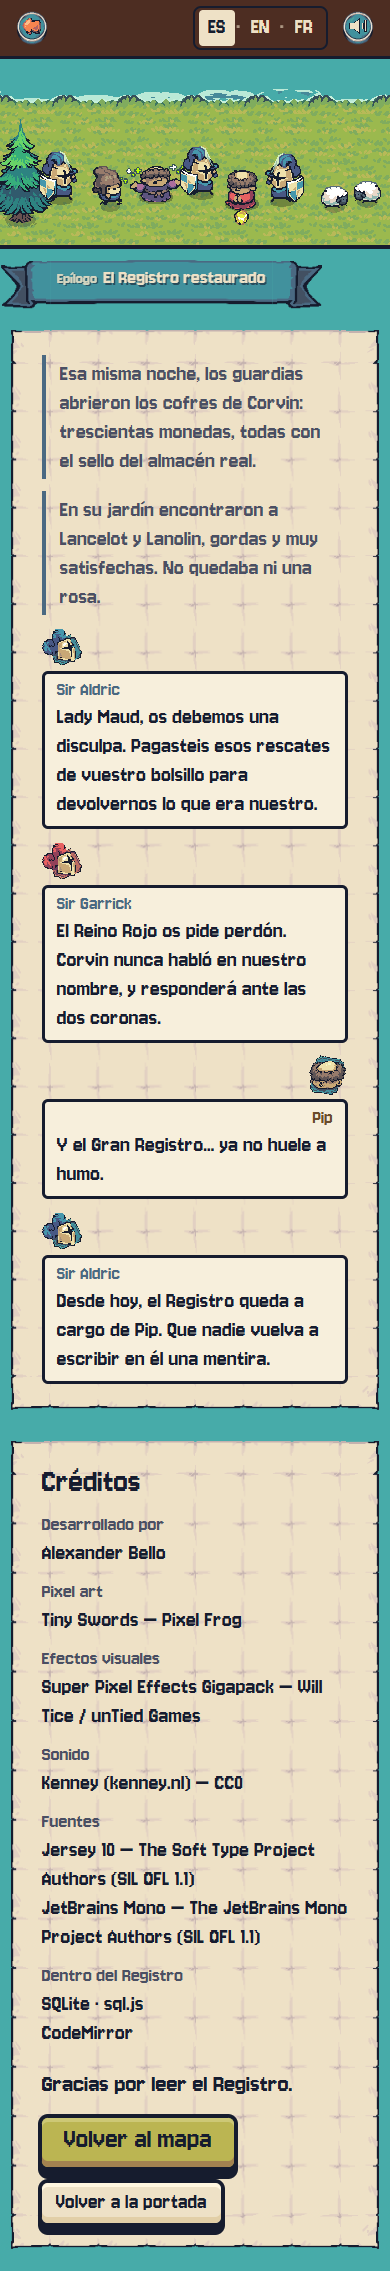
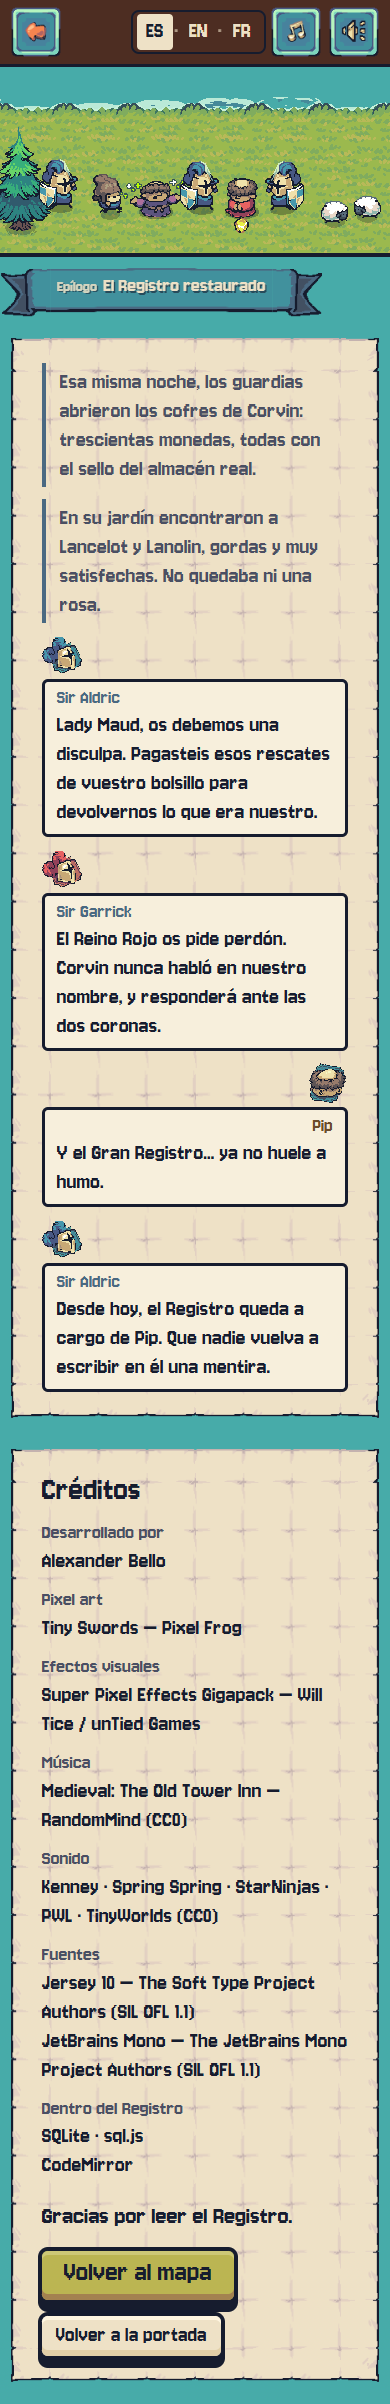
docs: Phase 6 notes, button proposals and screenshots with the new controls bar

diff --git a/README.md b/README.md
@@ -44,7 +44,7 @@ Each stage unlocks when the previous one is finished. The database is rebuilt fr
 time you run a query, so you cannot break anything. Solved levels can be played again from a blank
 page, and the map offers **Start over** to erase all progress.
 
-The language selector (ES · EN · FR) and the sound button are always in the top bar. Progress is saved
+The language selector (ES · EN · FR) and the music and sound buttons are always in the top bar. Progress is saved
 in your browser.
 
 ## Run it locally
@@ -84,19 +84,20 @@ instructions: [`docs/DEPLOY.md`](docs/DEPLOY.md).
 - **Editor**: [CodeMirror 6](https://codemirror.net) with SQLite highlighting and completion of the
   level's tables and columns.
 - **Languages**: `src/i18n/{es,en,fr}.json`; tests check that the three files have the same keys.
-- **Sound**: short effects with the Web Audio API. Nothing plays before the first click or key press,
-  and the sound button mutes everything. Browsers that cannot play Ogg Vorbis (some older Safari
-  versions) run the game without sound.
+- **Sound**: short effects and a quiet looping tune, with the Web Audio API. Nothing plays before the
+  first click or key press (that first click already has its sound). In the top bar, the speaker
+  silences everything and the note turns the music on or off; both choices are remembered. Files are
+  Ogg Vorbis, with MP3 copies for browsers that cannot play Ogg.
 - **Saved data** (`localStorage`): `kor.progress.v1` (completed levels), `kor.settings.v1` (language,
-  sound), `kor.hints.v1` (hints revealed), `kor.drafts.v1` (the SQL being written in each level).
+  sound, music), `kor.hints.v1` (hints revealed), `kor.drafts.v1` (the SQL being written in each level).
 
 ```
 docs/              Story, asset inventory, level format, deployment, design references
-public/assets/     Art, sounds and fonts used by the game + CREDITS.md and licences
+public/assets/     Art, sounds, music and fonts used by the game + CREDITS.md and licences
 scripts/           build_assets.py: copies the art from the original packs
 src/
   app/             App shell and hash router (#/, #/map, #/level/easy-2, #/epilogue)
-  audio/           Sound effects
+  audio/           Sound effects and music
   db/              sql.js loader
   engine/          SQL runner, answer checking, friendly errors, Web Worker client
   levels/          One JSON file per level
@@ -122,7 +123,8 @@ when the list of images changes.
 | Game design, story and development | Alexander Bello | All rights reserved |
 | Pixel art — *Tiny Swords* | Pixel Frog | Free for personal and commercial use, modification allowed; not to be used to train AI |
 | Visual effects — *Super Pixel Effects Gigapack* | Will Tice / unTied Games | Free for use in games with credit; files not to be redistributed on their own; not to be used to train AI |
-| Sound effects | Kenney ([kenney.nl](https://kenney.nl)) | CC0 1.0 (public domain) |
+| Music — *Medieval: The Old Tower Inn* | RandomMind | CC0 1.0 (public domain) |
+| Sound effects | Kenney ([kenney.nl](https://kenney.nl)), Spring Spring, StarNinjas, PWL, TinyWorlds | CC0 1.0 (public domain) |
 | Fonts — Jersey 10, JetBrains Mono | The Soft Type Project Authors; The JetBrains Mono Project Authors | SIL Open Font License 1.1 |
 | SQL engine — SQLite, sql.js | SQLite authors; sql.js contributors | Public domain; MIT |
 | Editor — CodeMirror | Marijn Haverbeke and contributors | MIT |

diff --git a/docs/design/README.md b/docs/design/README.md
@@ -138,3 +138,13 @@ animation. On phones, scenes skip items marked `wide` and the edge trees, and th
 The **epilogue** (`#/epilogue`, after the last level) shows the castle court and closes the story:
 the gold in Corvin's coffers, the sheep in his garden, Lady Maud cleared, the Registry restored; then
 the credits. Screens: `screens/epilogue-*.png`, `screens/reset-dialog-desktop.png`.
+
+## Phase 6 — controls bar and sound
+
+- **Controls bar:** back, music and sound use the square Tiny Swords button (`TinySquareBlueButton`),
+  shown at its native size (64 px; 52 px on phones). Icons: the kit's orange arrow and music note, and
+  the TS-1 speaker recoloured with the note's cream (the TS-2 kit has no speaker). A red X marks what is
+  switched off. Option B of the three proposals in `proposals/buttons-*.png`.
+- **Sound:** the speaker silences everything; the note turns the music off or on (it is dimmed while
+  everything is silenced). Sources and how the files were made: `public/assets/CREDITS.md`.
+- **Hints:** whole queries are shown one clause per line (see `src/ui/sql-layout.ts`).
